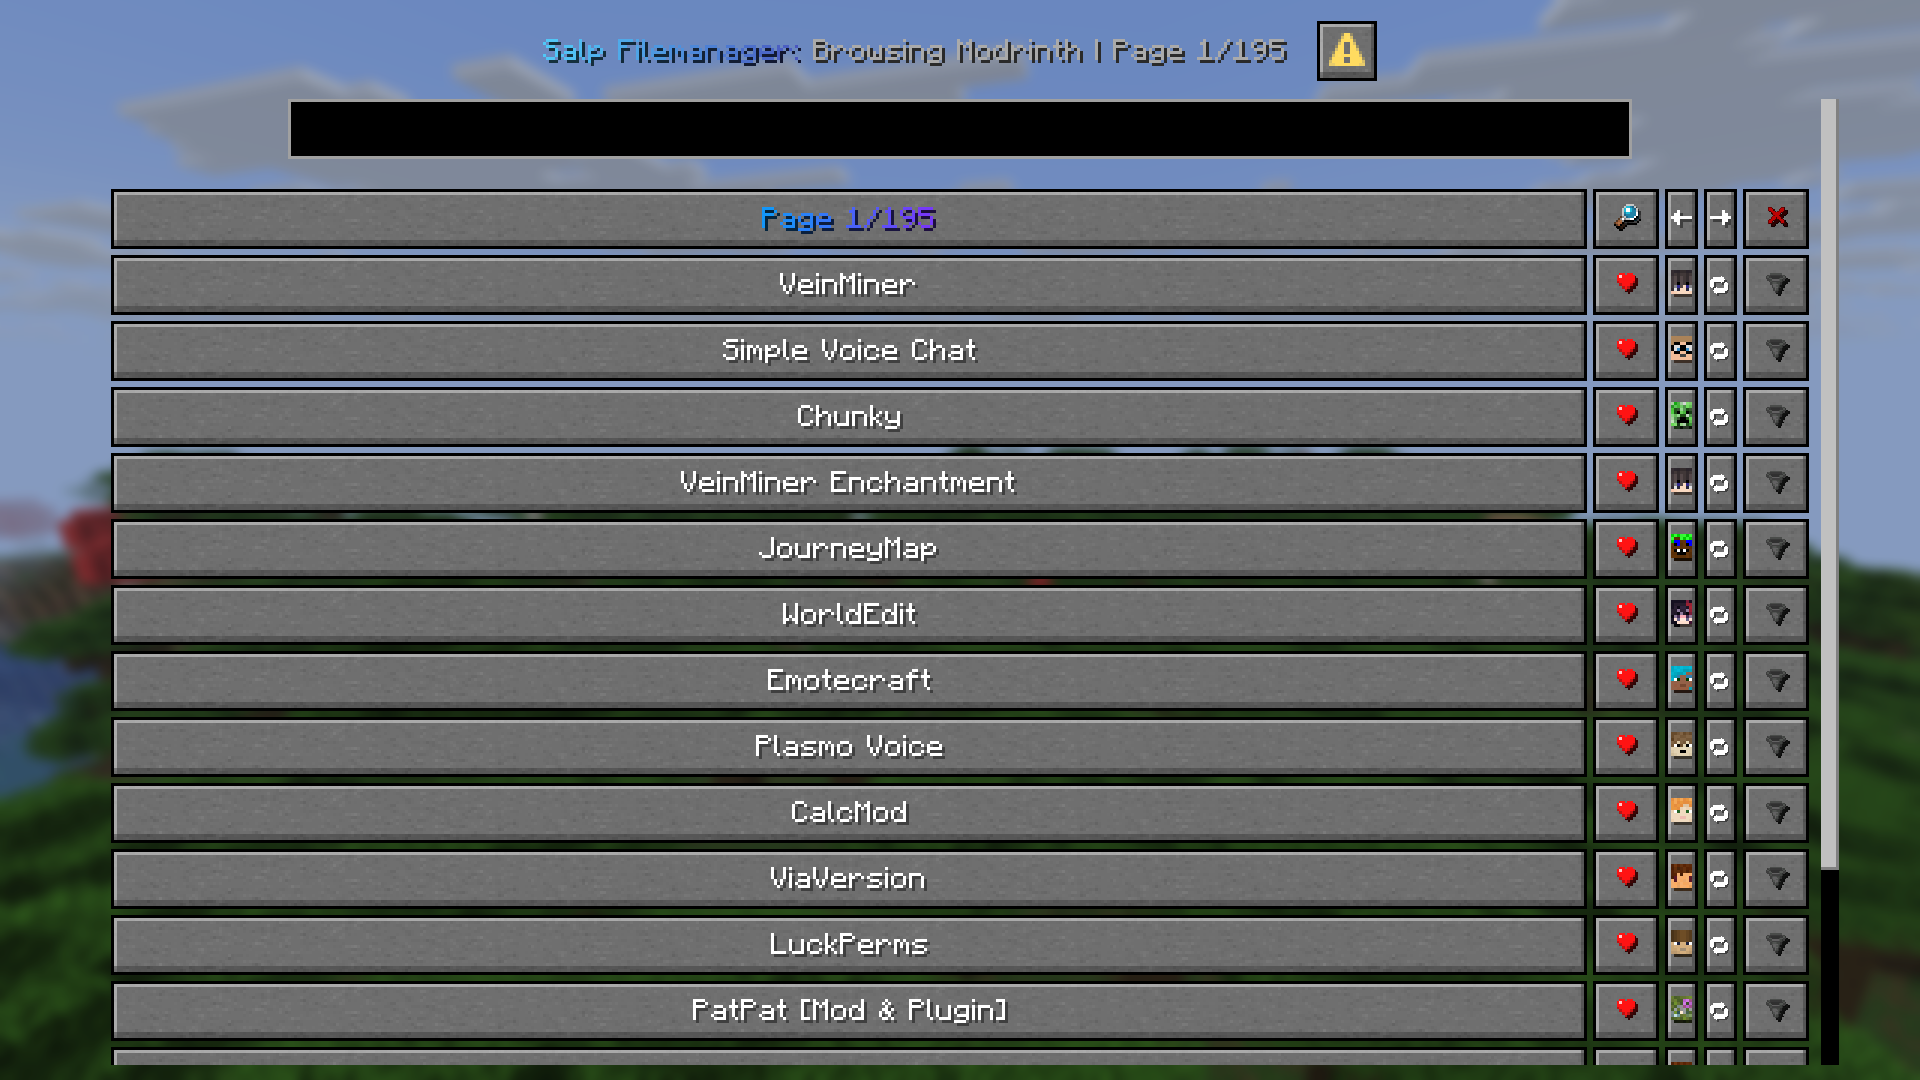
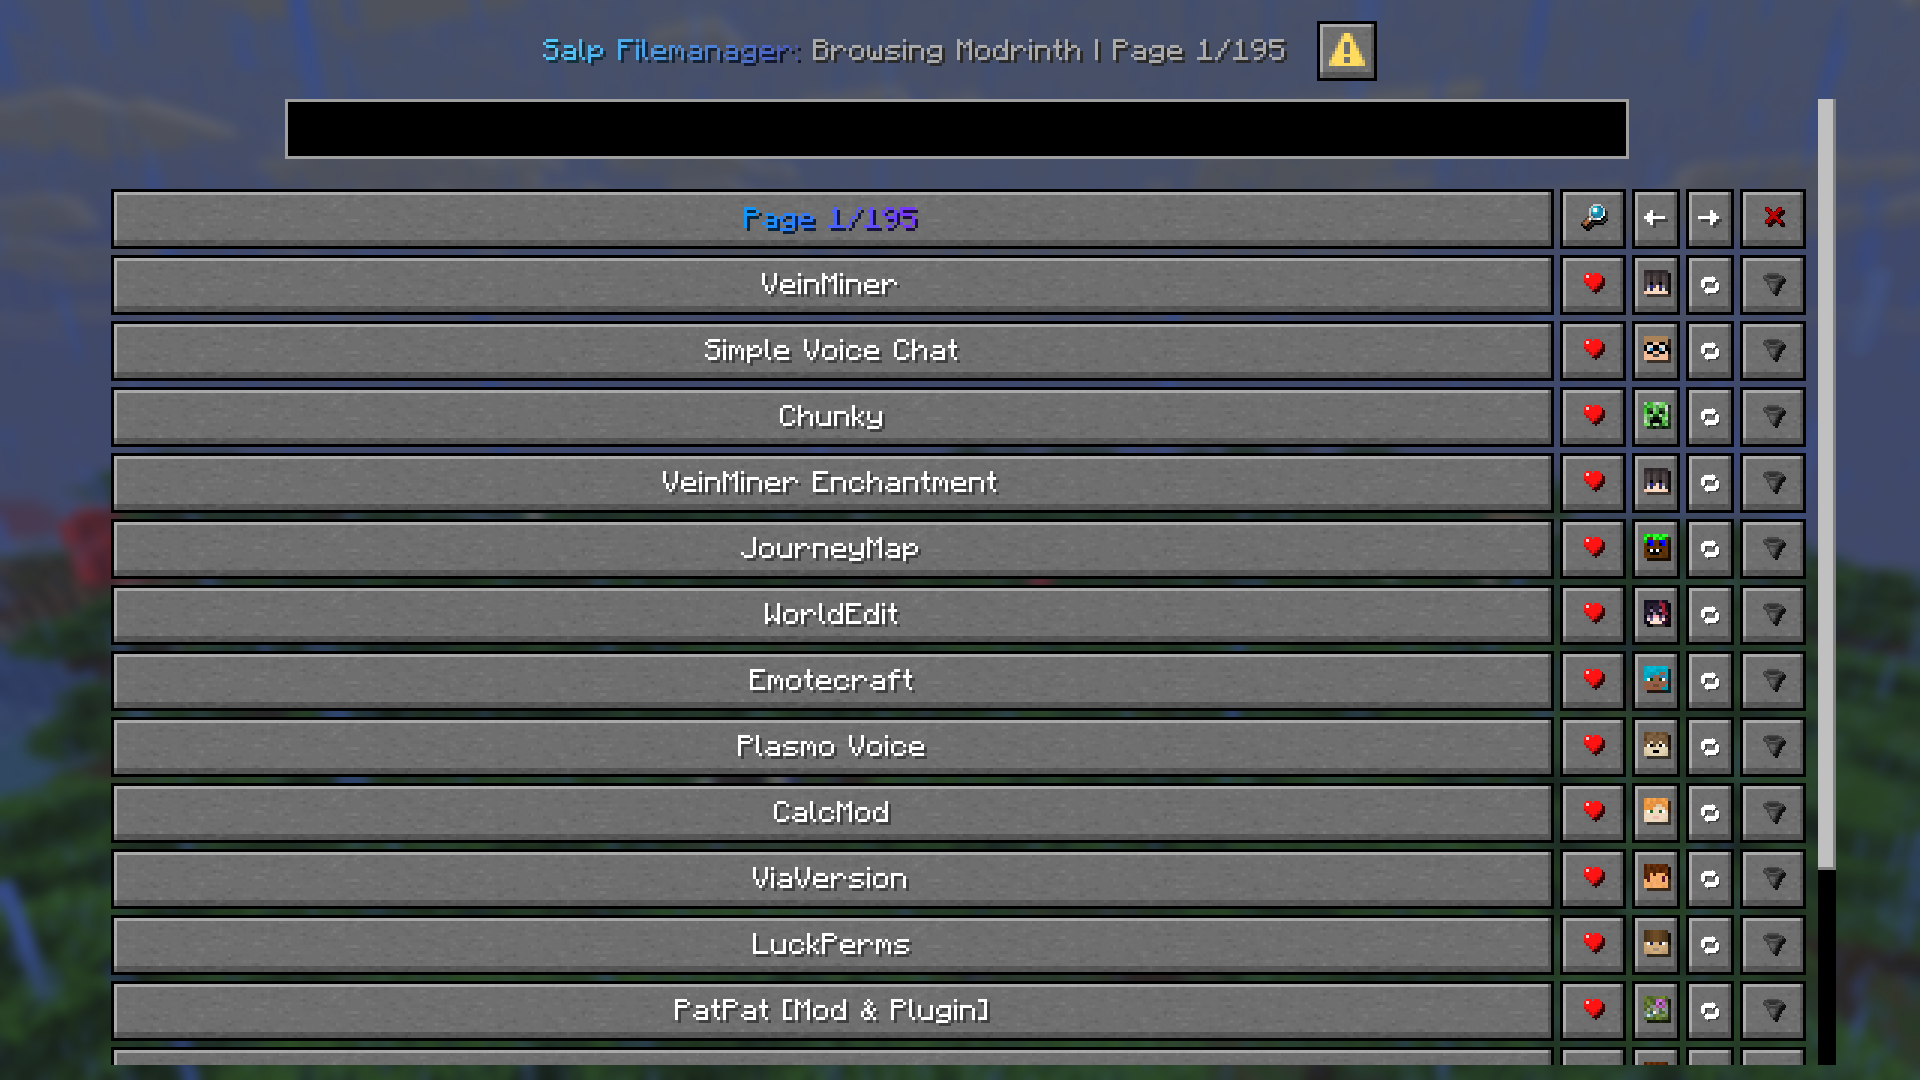
Added more spacing in ModrinthDialog

diff --git a/src/main/java/de/kel0002/salp/dialogs/main/ModrinthDialog.java b/src/main/java/de/kel0002/salp/dialogs/main/ModrinthDialog.java
@@ -98,7 +98,7 @@ public class ModrinthDialog {
                     page -= 1;
                     reOpen();
                 }))
-                .width(width(player, 2)).build());
+                .width(width(player, 3)).build());
 
         // Next Page
         buttons.add(ActionButton.builder(mn("→"))
@@ -110,7 +110,7 @@ public class ModrinthDialog {
                     page += 1;
                     reOpen();
                 }))
-                .width(width(player, 2)).build());
+                .width(width(player, 3)).build());
 
         // Close Dialog
         buttons.add(ActionButton.builder(mn("<sprite:gui:pending_invite/reject>"))
@@ -132,7 +132,7 @@ public class ModrinthDialog {
                             + "<newline><reset>" + project.getDescription()
                     ))
                     .action(getDialogAction((_, _) -> {}))
-                    .width(width(player, 88)).build()
+                    .width(width(player, 86)).build()
             );
 
             // Downloads
@@ -144,14 +144,14 @@ public class ModrinthDialog {
             // Author
             buttons.add(ActionButton.builder(mn("<head:" + project.getAuthor().replaceAll("[^A-Za-z0-9_]", "").replaceFirst("^(.{16}).*$", "$1") + ">"))
                     .tooltip(mn("<bold>Author:<reset> " + project.getAuthor()))
-                    .width(width(player, 2)).build());
+                    .width(width(player, 3)).build());
 
 
             // Updated
             buttons.add(ActionButton.builder(mn("\uD83D\uDD01"))
                     .tooltip(mn("<bold>Updated:<reset> " + formatTime(project.getUpdated())
                         + "<newline><bold>Created:<reset> " + formatTime(project.getCreated())))
-                    .width(width(player, 2)).build());
+                    .width(width(player, 3)).build());
             // Download
             String downloadIcon;
             String downloadTooltip;
@@ -231,7 +231,7 @@ public class ModrinthDialog {
                     page = 0;
                     reOpen();
                 }))
-                .width(width(player,88)).build();
+                .width(width(player,86)).build();
     }
 
     private String getPageInfo() {
